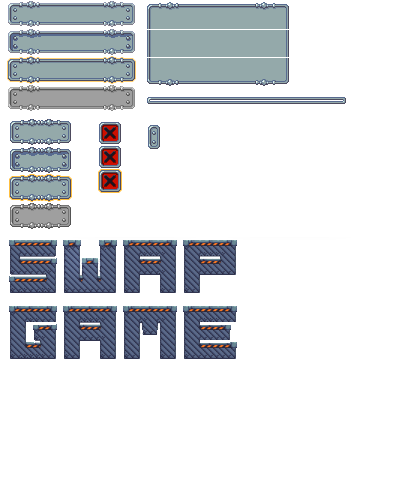
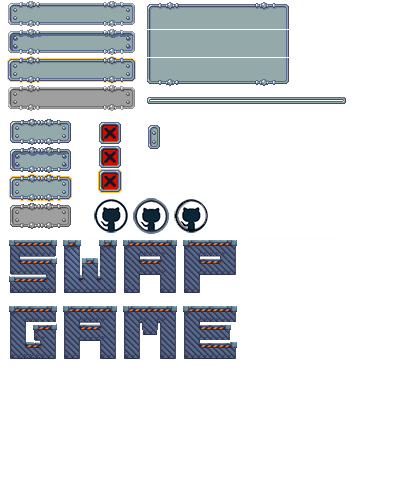
New functional website button. Sprites fro said button added to atlas.

Changed region(s): [[0.21, 0.39, 0.54, 0.48]]

diff --git a/Motor2D/j1Gui.cpp b/Motor2D/j1Gui.cpp
@@ -33,7 +33,7 @@ bool j1Gui::Awake(pugi::xml_node& conf)
 	title_Rect.y = conf.child("title_rect").attribute("y").as_int();
 	title_Rect.w = conf.child("title_rect").attribute("w").as_int();
 	title_Rect.h = conf.child("title_rect").attribute("h").as_int();
-
+	//Large button
 	L_Button_Section.x = conf.child("L_Button_Section").attribute("x").as_int();
 	L_Button_Section.y = conf.child("L_Button_Section").attribute("y").as_int();
 	L_Button_Section.w = conf.child("L_Button_Section").attribute("w").as_int();
@@ -54,6 +54,7 @@ bool j1Gui::Awake(pugi::xml_node& conf)
 	L_Button_Disabled.w = conf.child("L_Button_Disabled").attribute("w").as_int();
 	L_Button_Disabled.h = conf.child("L_Button_Disabled").attribute("h").as_int();
 
+	//---------------SMALL BUTTON-------------------
 	S_Button_Section.x = conf.child("S_Button_Section").attribute("x").as_int();
 	S_Button_Section.y = conf.child("S_Button_Section").attribute("y").as_int();
 	S_Button_Section.w = conf.child("S_Button_Section").attribute("w").as_int();
@@ -73,7 +74,7 @@ bool j1Gui::Awake(pugi::xml_node& conf)
 	S_Button_Disabled.y = conf.child("S_Button_Disabled").attribute("y").as_int();
 	S_Button_Disabled.w = conf.child("S_Button_Disabled").attribute("w").as_int();
 	S_Button_Disabled.h = conf.child("S_Button_Disabled").attribute("h").as_int();
-
+	//--------------EXIT BUTTON-----------------
 	X_Button_Section.x = conf.child("X_Button_Section").attribute("x").as_int();
 	X_Button_Section.y = conf.child("X_Button_Section").attribute("y").as_int();
 	X_Button_Section.w = conf.child("X_Button_Section").attribute("w").as_int();
@@ -88,7 +89,21 @@ bool j1Gui::Awake(pugi::xml_node& conf)
 	X_Button_Clicked.y = conf.child("X_Button_Clicked").attribute("y").as_int();
 	X_Button_Clicked.w = conf.child("X_Button_Clicked").attribute("w").as_int();
 	X_Button_Clicked.h = conf.child("X_Button_Clicked").attribute("h").as_int();
+	//----------------WEB/GITHUB BUTTON--------------
+	W_Button_Section.x = conf.child("W_Button_Section").attribute("x").as_int();
+	W_Button_Section.y = conf.child("W_Button_Section").attribute("y").as_int();
+	W_Button_Section.w = conf.child("W_Button_Section").attribute("w").as_int();
+	W_Button_Section.h = conf.child("W_Button_Section").attribute("h").as_int();
 
+	W_Button_Hover.x = conf.child("W_Button_Hover").attribute("x").as_int();
+	W_Button_Hover.y = conf.child("W_Button_Hover").attribute("y").as_int();
+	W_Button_Hover.w = conf.child("W_Button_Hover").attribute("w").as_int();
+	W_Button_Hover.h = conf.child("W_Button_Hover").attribute("h").as_int();
+
+	W_Button_Clicked.x = conf.child("W_Button_Clicked").attribute("x").as_int();
+	W_Button_Clicked.y = conf.child("W_Button_Clicked").attribute("y").as_int();
+	W_Button_Clicked.w = conf.child("W_Button_Clicked").attribute("w").as_int();
+	W_Button_Clicked.h = conf.child("W_Button_Clicked").attribute("h").as_int();
 
 	return ret;
 }

diff --git a/Motor2D/j1Scene.cpp b/Motor2D/j1Scene.cpp
@@ -311,21 +311,7 @@ void j1Scene::CameraLogic(float dt)
 
  void j1Scene::CreateWidgets()
  {
-	////Big buttons rects
-	//SDL_Rect L_Button_Section = { 9 , 2,128,26 };
-	//SDL_Rect L_Button_Hover = { 7,57,129,28 };
-	//SDL_Rect L_Button_Clicked = { 9,30,127,26};
-	//SDL_Rect L_Button_Disabeled = { 0,0,0,0 };
-	////Small buttons rects
-	//SDL_Rect S_Button_Section = { 11 , 120, 61, 26 };
-	//SDL_Rect S_Button_Hover = { 9, 172, 63, 28 };
-	//SDL_Rect S_Button_Clicked =  { 11, 148, 61, 26 };
-	//SDL_Rect S_Button_Disabled = { 11, 204, 61, 26};
-	////Xbutton rects
-	//SDL_Rect X_Button_Section = { 100, 123, 22, 22 };
-	//SDL_Rect X_Button_Hover = { 98, 169, 24, 24  };
-	//SDL_Rect X_Button_Clicked = { 100, 147, 22, 22 };
-	//SDL_Rect X_Button_Disabled = { 0,0,0,0 };
+	 //Values not hardcoded. Gets values from xml in j1Gui::Awake. iPoint needs to be dehardcoded
 	
 	//PLAY
 	UI_Button* play = App->gui->CreateButton(ButtonType::PLAY, { 390, 200 }, this, 
@@ -343,16 +329,19 @@ void j1Scene::CameraLogic(float dt)
 	UI_Button* credits = App->gui->CreateButton(ButtonType::CREDITS, { 465, 240 }, this, 
 		App->gui->S_Button_Section, App->gui->S_Button_Hover, 
 		App->gui->S_Button_Disabled, App->gui->S_Button_Clicked);
-	//CREDITS
+	//EXIT
 	UI_Button* exit = App->gui->CreateButton(ButtonType::EXIT, { 600, 80 }, this, 
 		App->gui->X_Button_Section, App->gui->X_Button_Hover, 
 		App->gui->X_Button_Disabled, App->gui->X_Button_Clicked);
+	//WEBPAGE/github
+	UI_Button* webpage = App->gui->CreateButton(ButtonType::WEBPAGE, { 590, 285 }, this, 
+		App->gui->W_Button_Section, App->gui->W_Button_Hover, 
+		App->gui->W_Button_Disabled, App->gui->W_Button_Clicked);
 
-	//Title. This is not hardcoded. Gets values from xml in j1GUi::Awake
+	//Title.
 	UI_Sprite* title = App->gui->CreateSprite(App->gui->title_pos, this, App->gui->title_Rect);
 	title->draggable = true;
 
-	
  }
 
  bool j1Scene::SearchValidCameraPos()

diff --git a/Motor2D/j1Gui.h b/Motor2D/j1Gui.h
@@ -71,6 +71,11 @@ public:
 	SDL_Rect X_Button_Clicked;
 	SDL_Rect X_Button_Disabled;
 
+	SDL_Rect W_Button_Section;
+	SDL_Rect W_Button_Hover;
+	SDL_Rect W_Button_Clicked;
+	SDL_Rect W_Button_Disabled;
+
 public:
 
 	bool dragging = false;
